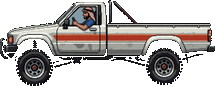
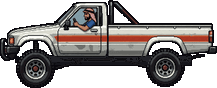
Release 1.6.1: remade pickup truck art and motion
Claude-Session: https://claude.ai/code/session_012vGkfnchknpALYnp7RxvG9

diff --git a/game/index.html b/game/index.html
@@ -724,7 +724,7 @@ const PARRY_COOLDOWN = 450;   // pressing guard again sooner than this does not 
 const FFA_PLATFORMS = [{ x1: 330, x2: 690, top: 175 }, { x1: 1310, x2: 1670, top: 175 }, { x1: 800, x2: 1200, top: 320 }];
 const FFA_MAX_SEP = 1180;
 // the pickup truck that gives the left-behind fighter a ride to Al Namas (art faces left, drawn at 3x)
-const TRUCK = { sc: 3, w: 215, h: 86, bed: 205, bedH: 165 };   // hits in a row before a knockdown
+const TRUCK = { sc: 3, w: 217, h: 88, bed: 205, bedH: 138, wheels: [[35, 68], [164.5, 67.5]], wr: 19 };   // hits in a row before a knockdown
 const blank = () => { const s = {}; ACTIONS.forEach(b => s[b] = false); return s; };
 const newStats = () => ({ hits: 0, dmg: 0, maxCombo: 0, blocks: 0, specials: 0 });
 
@@ -12463,7 +12463,7 @@ class View {
       ctx.fillStyle = `rgba(214,178,120,${0.6 * (1 - age)})`; ctx.fillRect(Math.round(x / 4) * 4 - sz / 2, Math.round(y / 4) * 4 - sz, sz, sz);
     }
     const RX = T.left ? 930 : 560;   // with the truck chasing, the runner sits further ahead so the whole truck fits behind him
-    if (T.left) { const k = Math.min(1, t / 4400), e = 1 - Math.pow(1 - k, 2), gap = 1750 - 1230 * e; this.drawTruck(ctx, { rider: T.left, moving: true, dir: 1 }, this.g.time, RX - gap, 1); }
+    if (T.left) { const k = Math.min(1, t / 4400), e = 1 - Math.pow(1 - k, 2), gap = 1750 - 1230 * e; this.deserTruck = this.deserTruck && this.deserTruck.rider === T.left ? this.deserTruck : { rider: T.left, moving: true, dir: 1, spin: 18 }; this.drawTruck(ctx, this.deserTruck, this.g.time, RX - gap, 1); }
     const f = T.owner; this.shadow(ctx, RX, 0);
     this.drawCarry(ctx, f, RX, 1);
     const fg = E.road; const off = Math.round(camX * 1.3) % (fg.width * PX - VW);
@@ -12941,14 +12941,27 @@ class View {
   }
   // the pickup truck: rider in the bed first (the bed sides hide his legs), then the truck, with a little road shake
   drawTruck(ctx, tk, t, X, dirOverride) {
-    const img = this.env.extra.pickup; if (!img) return;
-    const d = dirOverride || tk.dir, sc = TRUCK.sc, w = TRUCK.w * sc, h = TRUCK.h * sc, jig = tk.moving ? ((Math.floor(t / 70) % 2) ? -3 : 0) : 0;
+    const img = this.env.extra.pickup, wimg = this.env.extra.pickupWheel; if (!img) return;
+    const d = dirOverride || tk.dir, sc = TRUCK.sc, w = TRUCK.w * sc, h = TRUCK.h * sc;
+    // the body rides on its suspension: a soft bob while driving, a dip when it brakes to a stop
+    const bob = tk.moving ? Math.round((Math.sin(t / 55) * 1.6 + Math.sin(t / 23) * 0.8)) * 3 : 0;
+    if (tk.moving !== tk._wasMoving) { if (tk._wasMoving && !tk.moving) tk._dipT = t; tk._wasMoving = tk.moving; }
+    const dip = tk._dipT != null && t - tk._dipT < 360 ? Math.round(Math.sin((t - tk._dipT) / 360 * Math.PI) * 2) * 3 : 0, jig = bob + dip;
     const r = tk.rider;
-    if (r && r.inTruck) { const [n, i] = r.frameName(); this.drawSprite(ctx, r.pal, n, i, X - d * TRUCK.bed, TRUCK.bedH + jig, d, {}); }
+    if (r && r.inTruck) { const [n, i] = r.frameName(); this.drawSprite(ctx, r.pal, n, i, X - d * TRUCK.bed, TRUCK.bedH - jig, d, {}); }
     ctx.fillStyle = 'rgba(8,5,16,0.4)'; ctx.fillRect(Math.round(X - w / 2 + 30), GROUND - 6, Math.round(w - 60), 10);
     ctx.save(); ctx.imageSmoothingEnabled = false;
-    ctx.translate(Math.round(X), GROUND + 3 + jig); if (d > 0) ctx.scale(-1, 1);
-    ctx.drawImage(img, Math.round(-w / 2), -h, w, h);
+    ctx.translate(Math.round(X), GROUND + 3); if (d > 0) ctx.scale(-1, 1);
+    ctx.drawImage(img, Math.round(-w / 2), -h + jig, w, h);
+    // wheels stay on the road and roll with the distance travelled
+    if (wimg) {
+      if (tk._lx == null) tk._lx = X; tk._roll = (tk._roll || 0) + (tk.moving ? Math.max(Math.abs(X - tk._lx), tk.spin || 0) : 0); tk._lx = X;
+      const ang = -(tk._roll / (TRUCK.wr * sc)), ws = wimg.width * sc;
+      for (const [wx, wy] of TRUCK.wheels) {
+        ctx.save(); ctx.translate(Math.round((wx - TRUCK.w / 2) * sc), Math.round((wy - TRUCK.h) * sc)); ctx.rotate(Math.round(ang / (Math.PI / 8)) * (Math.PI / 8));
+        ctx.drawImage(wimg, Math.round(-ws / 2), Math.round(-ws / 2), ws, ws); ctx.restore();
+      }
+    }
     ctx.restore();
     if (tk.moving) for (let k = 0; k < 4; k++) { const ph = ((t / 300) + k * 0.25) % 1; ctx.fillStyle = `rgba(214,178,120,${0.45 * (1 - ph)})`; const px = X - d * (w / 2 - 10 + ph * 120), sz = 8 + ph * 16; ctx.fillRect(Math.round(px - sz / 2), Math.round(GROUND - 8 - ph * 20 - sz / 2), Math.round(sz), Math.round(sz)); }
   }
@@ -15913,7 +15926,7 @@ onmessage = e => { const m = e.data; try {
   let game = null, view = null, net = null;
   const load = src => new Promise((res, rej) => { const i = new Image(); i.onload = () => res(i); i.onerror = rej; i.src = src; });
   const fonts = document.fonts ? Promise.all(['40px "BS Blade"', '20px "BS Edge"'].map(f => document.fonts.load(f))).catch(() => {}) : Promise.resolve();
-  const EXTRA = { town: 'alnamas.jpg', sky: 'desert_sky.png', mts: 'desert_mts.png', mesa: 'desert_mesa.png', dune: 'desert_dune.png', road: 'desert_road.png', signArrow: 'sign_arrow.png', signArrowLeft: 'sign_arrow_left.png', rockSpin: 'rock_spin_strip.png', kunai: 'kunai2.png', rustyRock: 'rusty_rock.png', censor: 'censor.png', pit: 'pit.jpg', car: 'car.png', carWheels: 'car_wheels.png', rockShatter: 'rock_shatter_strip.png', signSquare: 'sign_square.png', chamber: 'chamber.png', chamberInner: 'chamber_inner.png', chamberRound: 'chamber_round.png', elem_fire: 'elem_fire.png', elem_water: 'elem_water.png', elem_air: 'elem_air.png', elem_earth: 'elem_earth.png', stageThumbs: 'stage_thumbs.png', pickup: 'pickup.png' };
+  const EXTRA = { town: 'alnamas.jpg', sky: 'desert_sky.png', mts: 'desert_mts.png', mesa: 'desert_mesa.png', dune: 'desert_dune.png', road: 'desert_road.png', signArrow: 'sign_arrow.png', signArrowLeft: 'sign_arrow_left.png', rockSpin: 'rock_spin_strip.png', kunai: 'kunai2.png', rustyRock: 'rusty_rock.png', censor: 'censor.png', pit: 'pit.jpg', car: 'car.png', carWheels: 'car_wheels.png', rockShatter: 'rock_shatter_strip.png', signSquare: 'sign_square.png', chamber: 'chamber.png', chamberInner: 'chamber_inner.png', chamberRound: 'chamber_round.png', elem_fire: 'elem_fire.png', elem_water: 'elem_water.png', elem_air: 'elem_air.png', elem_earth: 'elem_earth.png', stageThumbs: 'stage_thumbs.png', pickup: 'pickup.png', pickupWheel: 'pickup_wheel.png' };
   const extra = {};
   const bleepSrc = new Audio('bleep.mp3'); bleepSrc.preload = 'auto';
   // stage songs: Al Namas and the underground pit
@@ -15925,7 +15938,7 @@ onmessage = e => { const m = e.data; try {
   window.addEventListener('pointerdown', kick); window.addEventListener('keydown', kick);
   let songOn = false, songDuck = false;
   const masks = {};
-  Promise.all(MANIFEST.sheets.map(load).concat(Object.entries(EXTRA).map(([k, src]) => load(src).then(i => { extra[k] = i; }, err => { if (k !== 'stageThumbs' && k !== 'pickup') throw err; })),
+  Promise.all(MANIFEST.sheets.map(load).concat(Object.entries(EXTRA).map(([k, src]) => load(src).then(i => { extra[k] = i; }, err => { if (k !== 'stageThumbs' && k !== 'pickup' && k !== 'pickupWheel') throw err; })),
     Object.entries(MANIFEST.masks || {}).map(([k, src]) => load(src).then(i => { masks[k] = i; })))).then(async all => {
     const imgs = all.slice(0, MANIFEST.sheets.length); sheetImgs = imgs; if (!skinW) warmIndexes(); else setTimeout(() => warmSkinWorker(imgs), 1500);
     await fonts;
